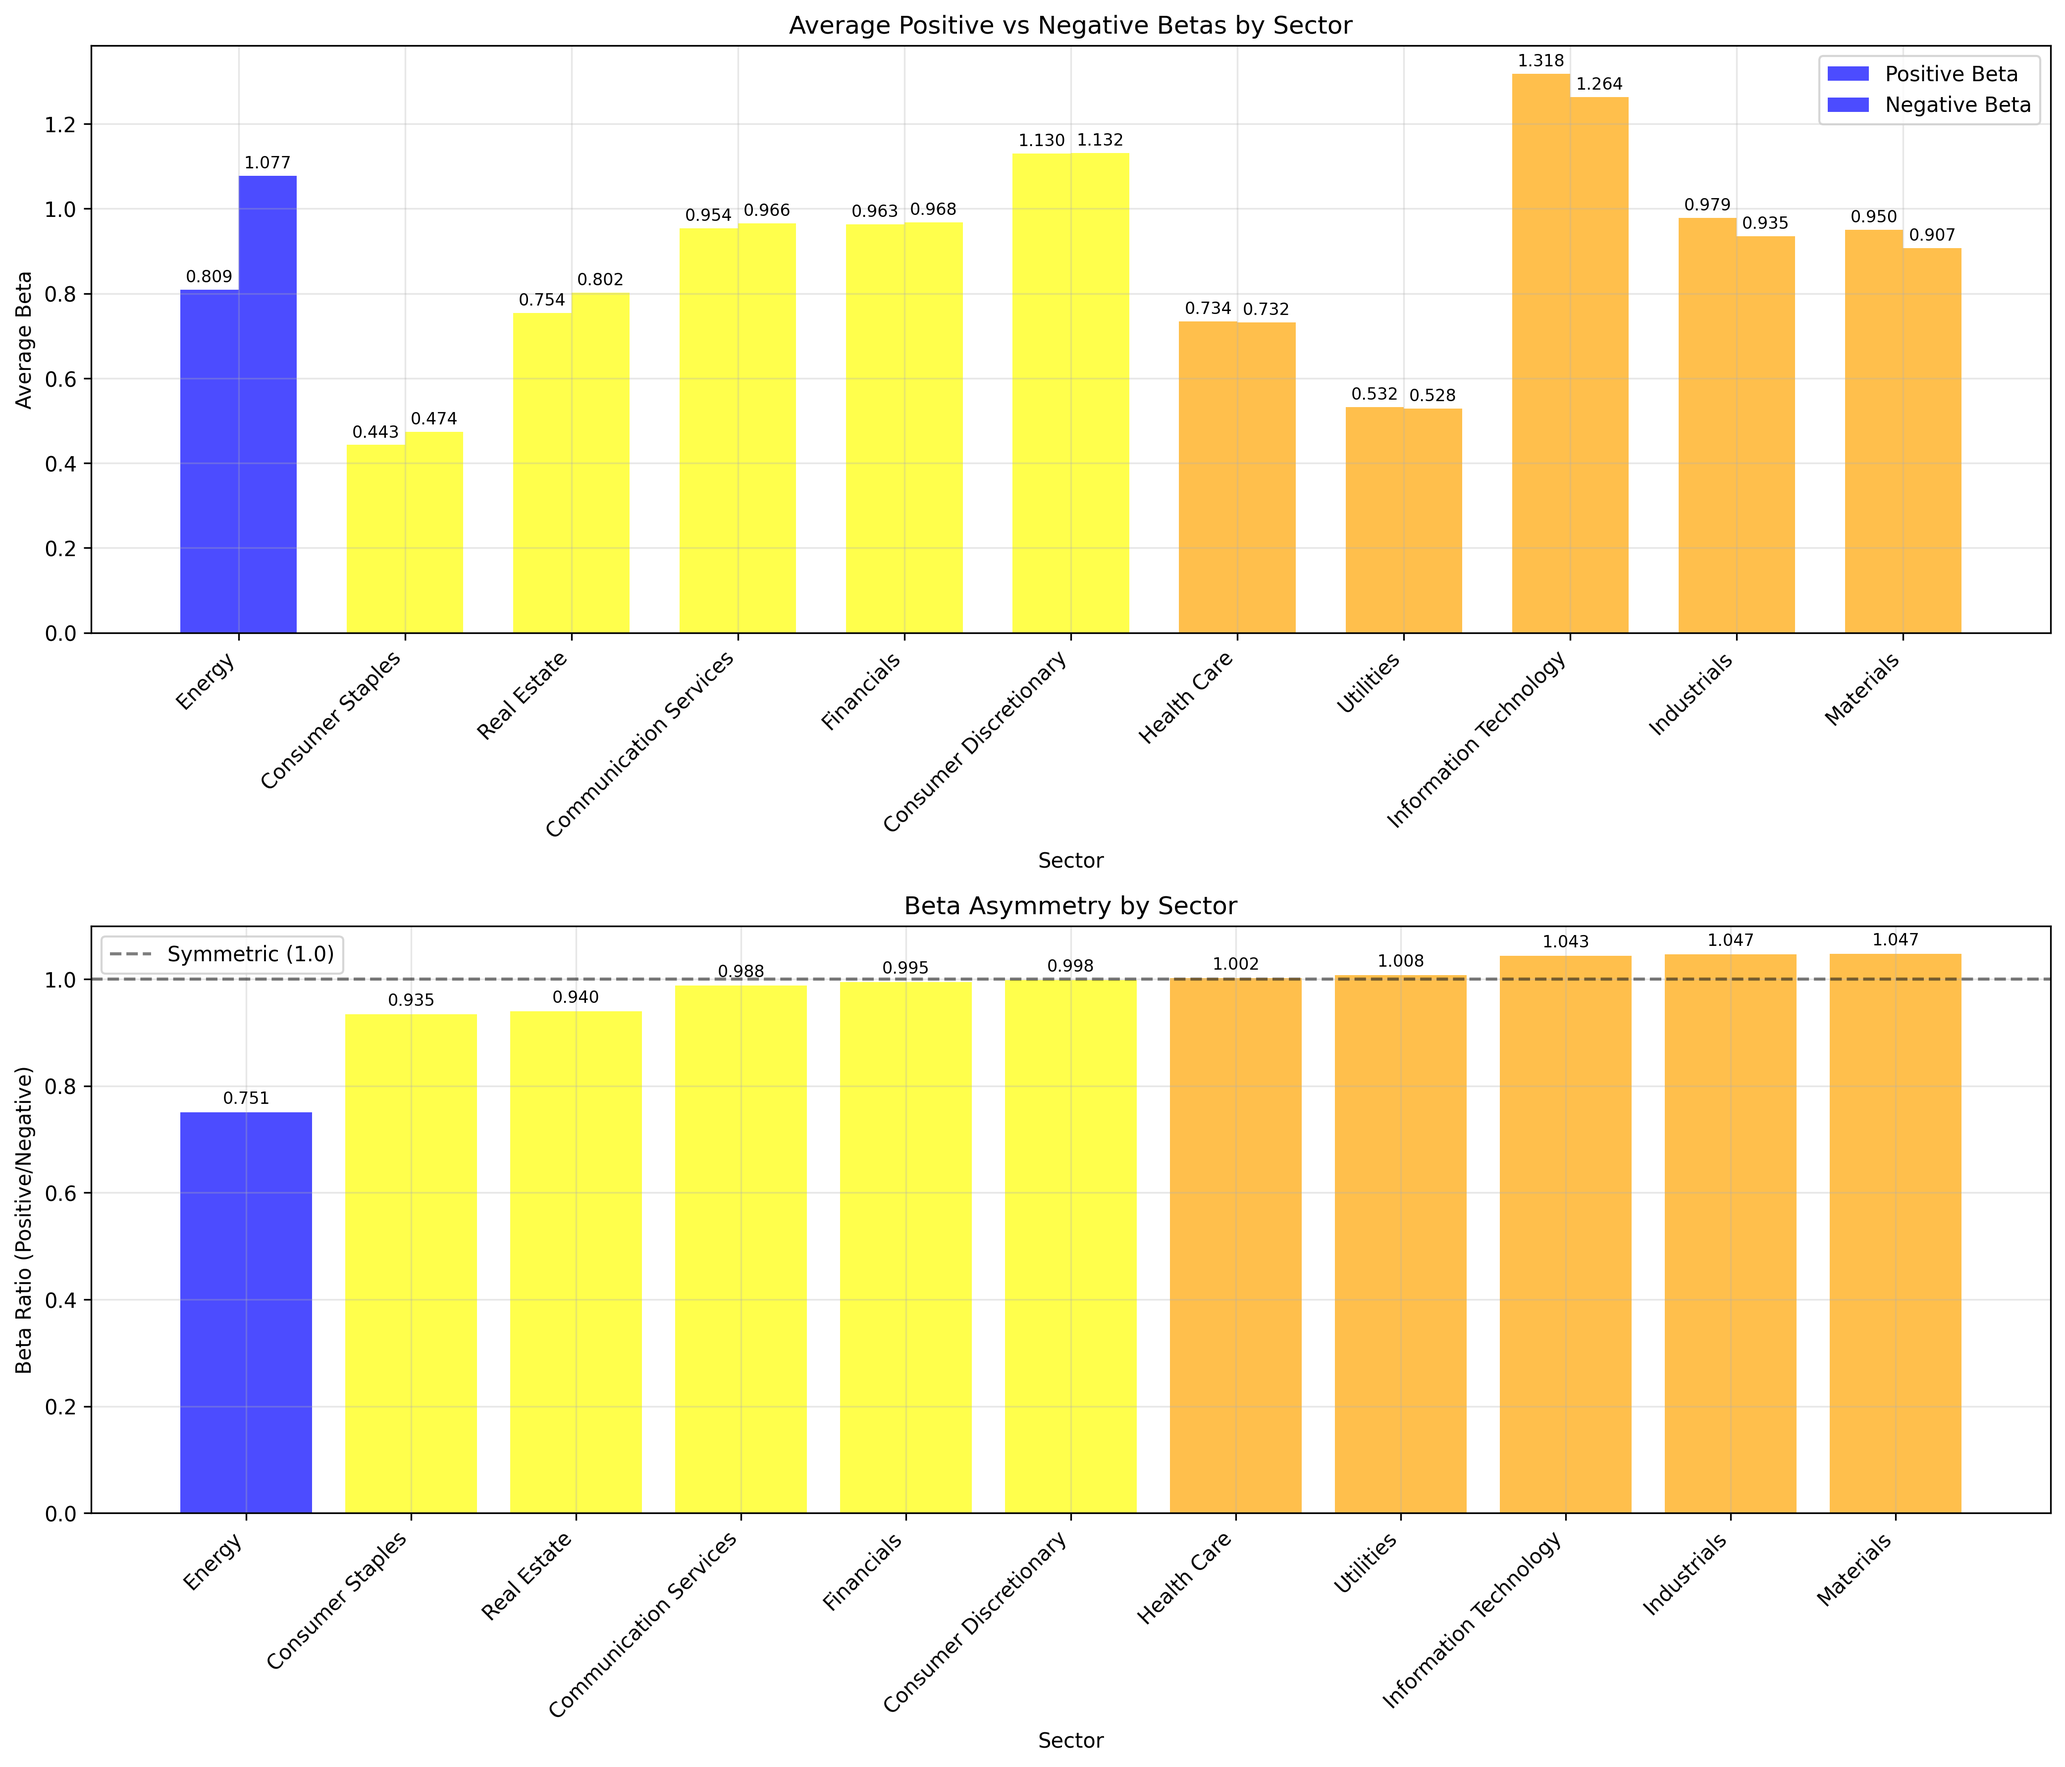
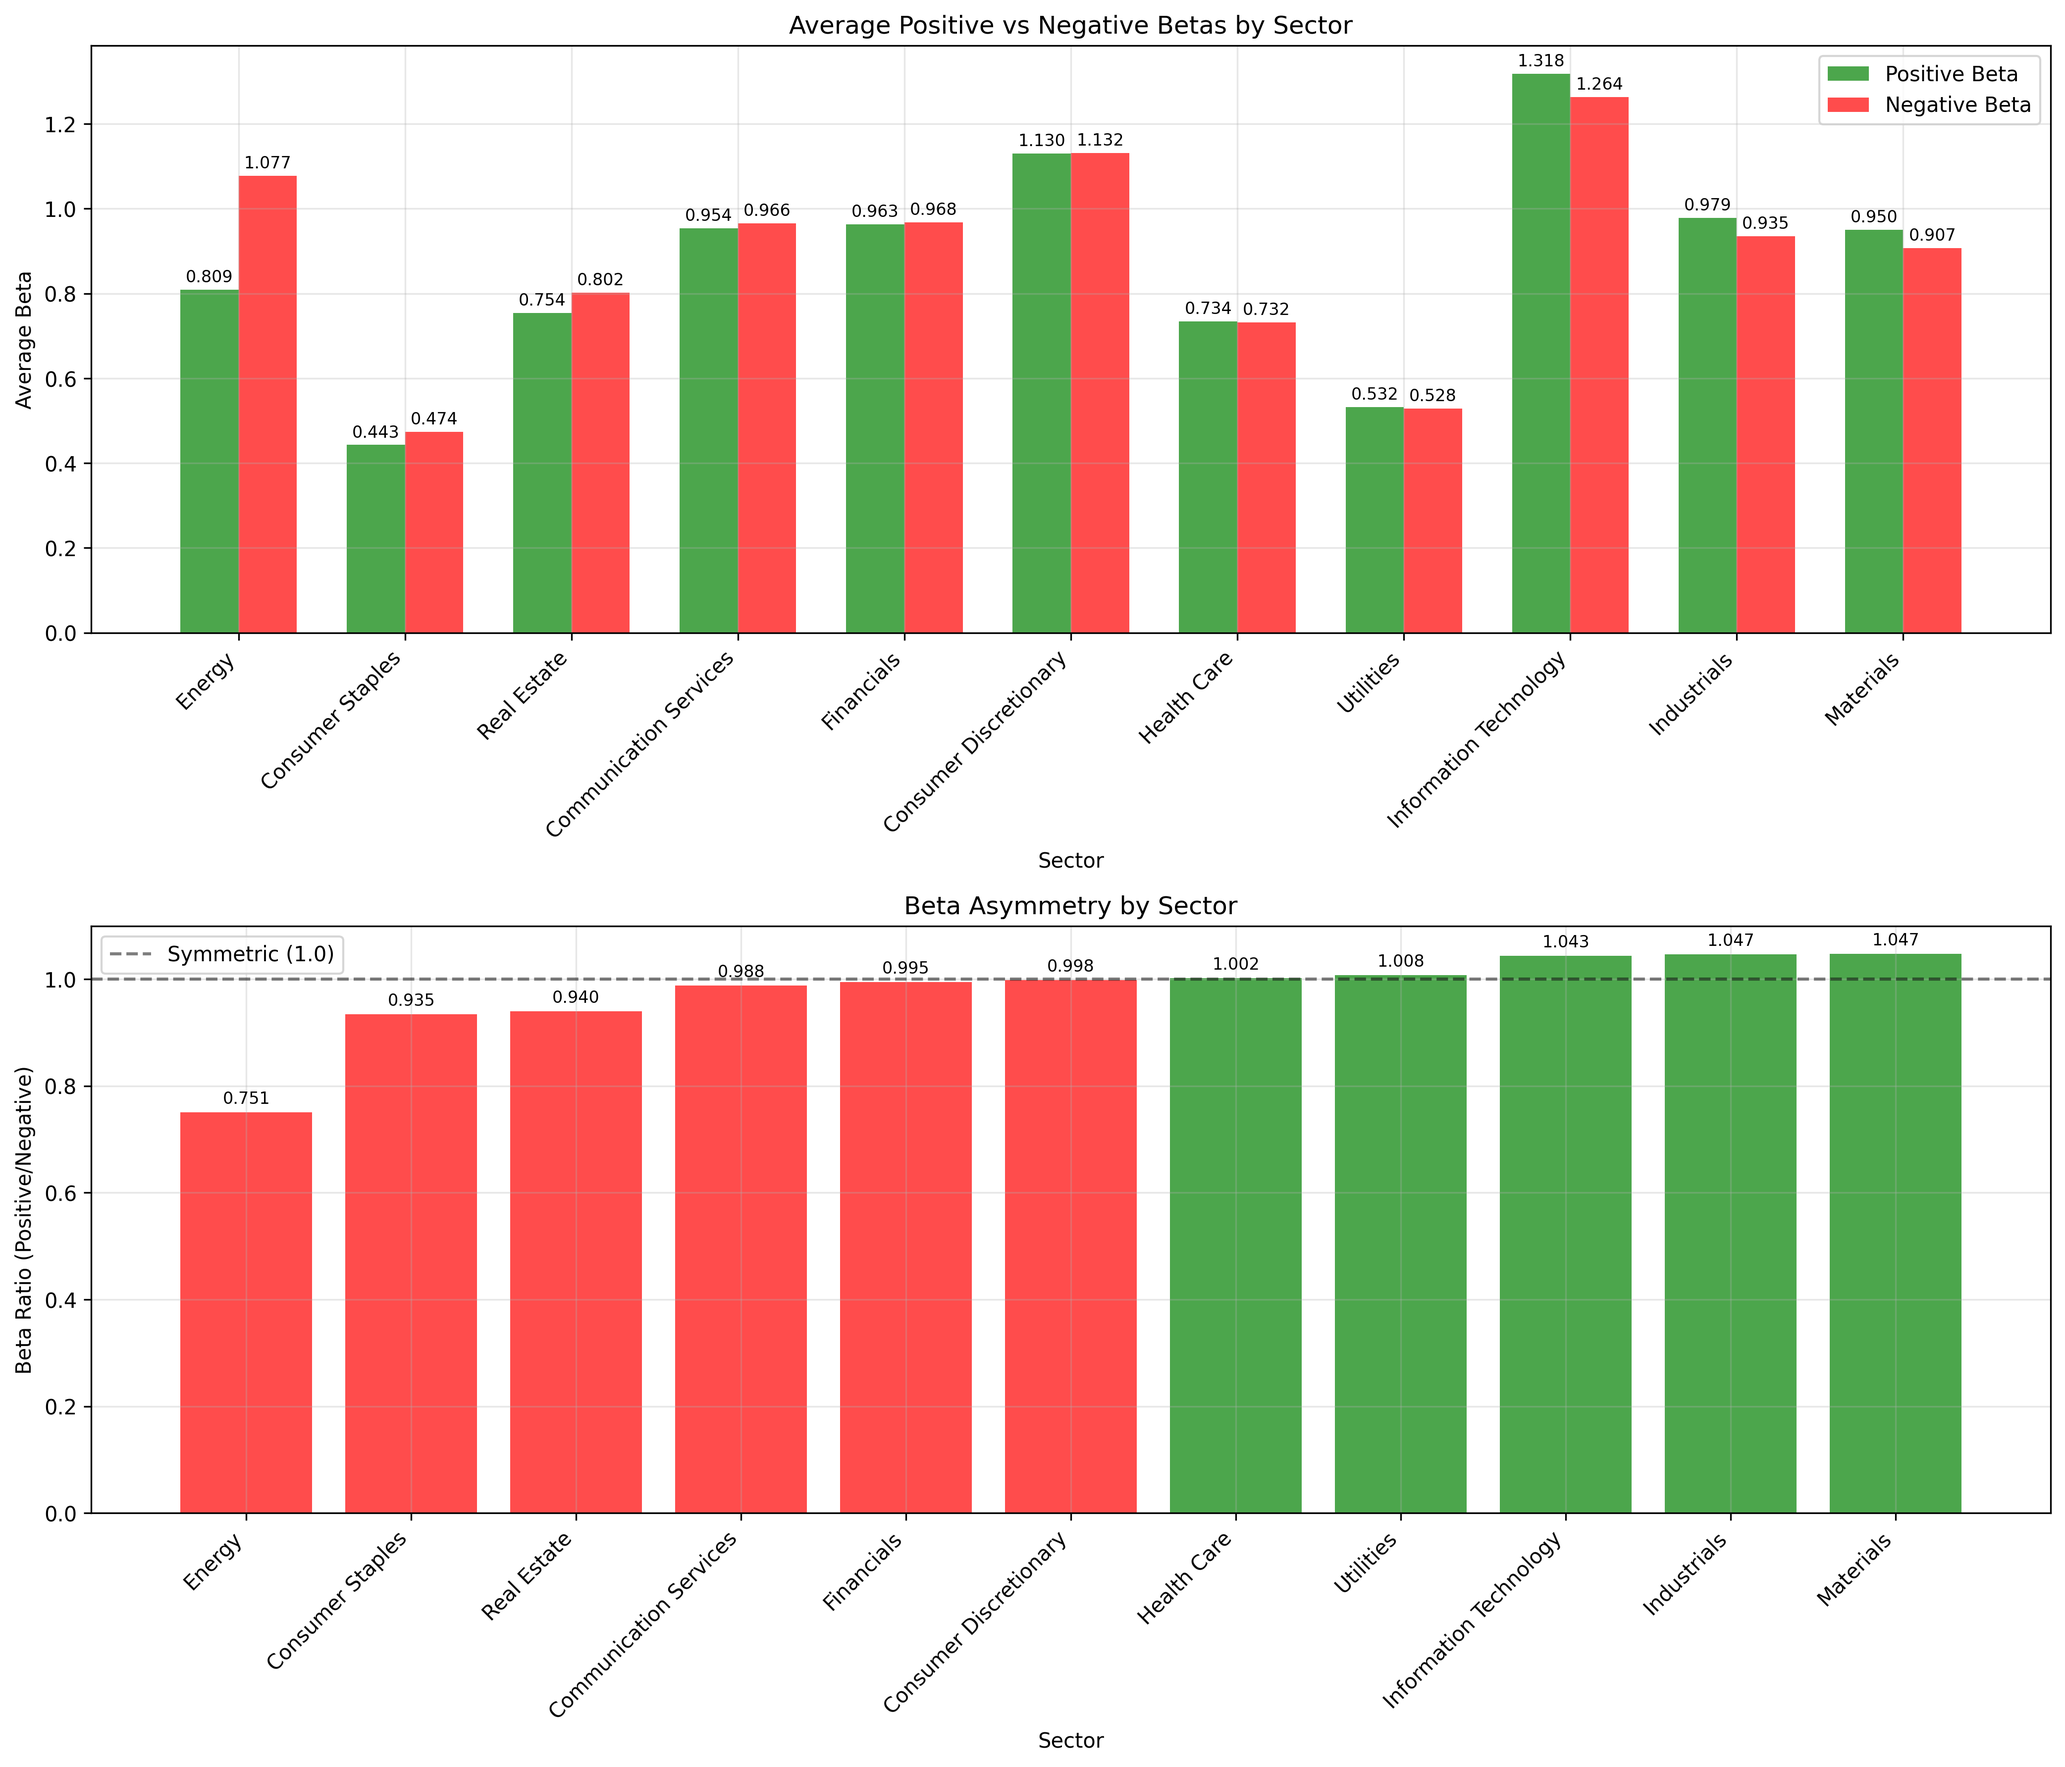
Revert sector comparison chart to original nice color scheme - Use green for positive betas and red for negative betas - Use green for ratios >= 1.0 and red for ratios < 1.0 - Much cleaner and more intuitive color scheme

diff --git a/regenerate_charts_only.py b/regenerate_charts_only.py
@@ -197,32 +197,13 @@ def create_sector_beta_charts(beta_results, sector_map):
     negative_avgs = [s[1]['negative_avg'] for s in sorted_sectors]
     ratios = [s[1]['ratio'] for s in sorted_sectors]
     
-    # Bar chart with gradient colors
+    # Bar chart with original nice color scheme
     x = np.arange(len(sectors))
     width = 0.35
     
-    # Use gradient colors for positive/negative bars too (red at top, blue at bottom)
-    pos_colors = []
-    neg_colors = []
-    for ratio in ratios:
-        if ratio < 0.8:
-            pos_colors.append('blue')  # Highest negative bias at bottom
-            neg_colors.append('blue')
-        elif ratio < 0.9:
-            pos_colors.append('lightblue')
-            neg_colors.append('lightblue')
-        elif ratio < 1.0:
-            pos_colors.append('yellow')
-            neg_colors.append('yellow')
-        elif ratio < 1.1:
-            pos_colors.append('orange')
-            neg_colors.append('orange')
-        else:
-            pos_colors.append('red')  # Highest positive bias at top
-            neg_colors.append('red')
-    
-    bars1 = ax1.bar(x - width/2, positive_avgs, width, label='Positive Beta', color=pos_colors, alpha=0.7)
-    bars2 = ax1.bar(x + width/2, negative_avgs, width, label='Negative Beta', color=neg_colors, alpha=0.7)
+    # Use original nice colors: green for positive, red for negative
+    bars1 = ax1.bar(x - width/2, positive_avgs, width, label='Positive Beta', color='green', alpha=0.7)
+    bars2 = ax1.bar(x + width/2, negative_avgs, width, label='Negative Beta', color='red', alpha=0.7)
     
     ax1.set_xlabel('Sector')
     ax1.set_ylabel('Average Beta')
@@ -239,20 +220,8 @@ def create_sector_beta_charts(beta_results, sector_map):
             ax1.text(bar.get_x() + bar.get_width()/2., height + 0.01,
                     f'{height:.3f}', ha='center', va='bottom', fontsize=8)
     
-    # Ratio chart with gradient color scheme (red at top, blue at bottom)
-    colors = []
-    for ratio in ratios:
-        if ratio < 0.8:
-            colors.append('blue')  # Highest negative bias at bottom
-        elif ratio < 0.9:
-            colors.append('lightblue')
-        elif ratio < 1.0:
-            colors.append('yellow')
-        elif ratio < 1.1:
-            colors.append('orange')
-        else:
-            colors.append('red')  # Highest positive bias at top
-    
+    # Ratio chart with original nice color scheme
+    colors = ['green' if r >= 1.0 else 'red' for r in ratios]
     bars3 = ax2.bar(sectors, ratios, color=colors, alpha=0.7)
     ax2.axhline(y=1.0, color='black', linestyle='--', alpha=0.5, label='Symmetric (1.0)')
     ax2.set_xlabel('Sector')
